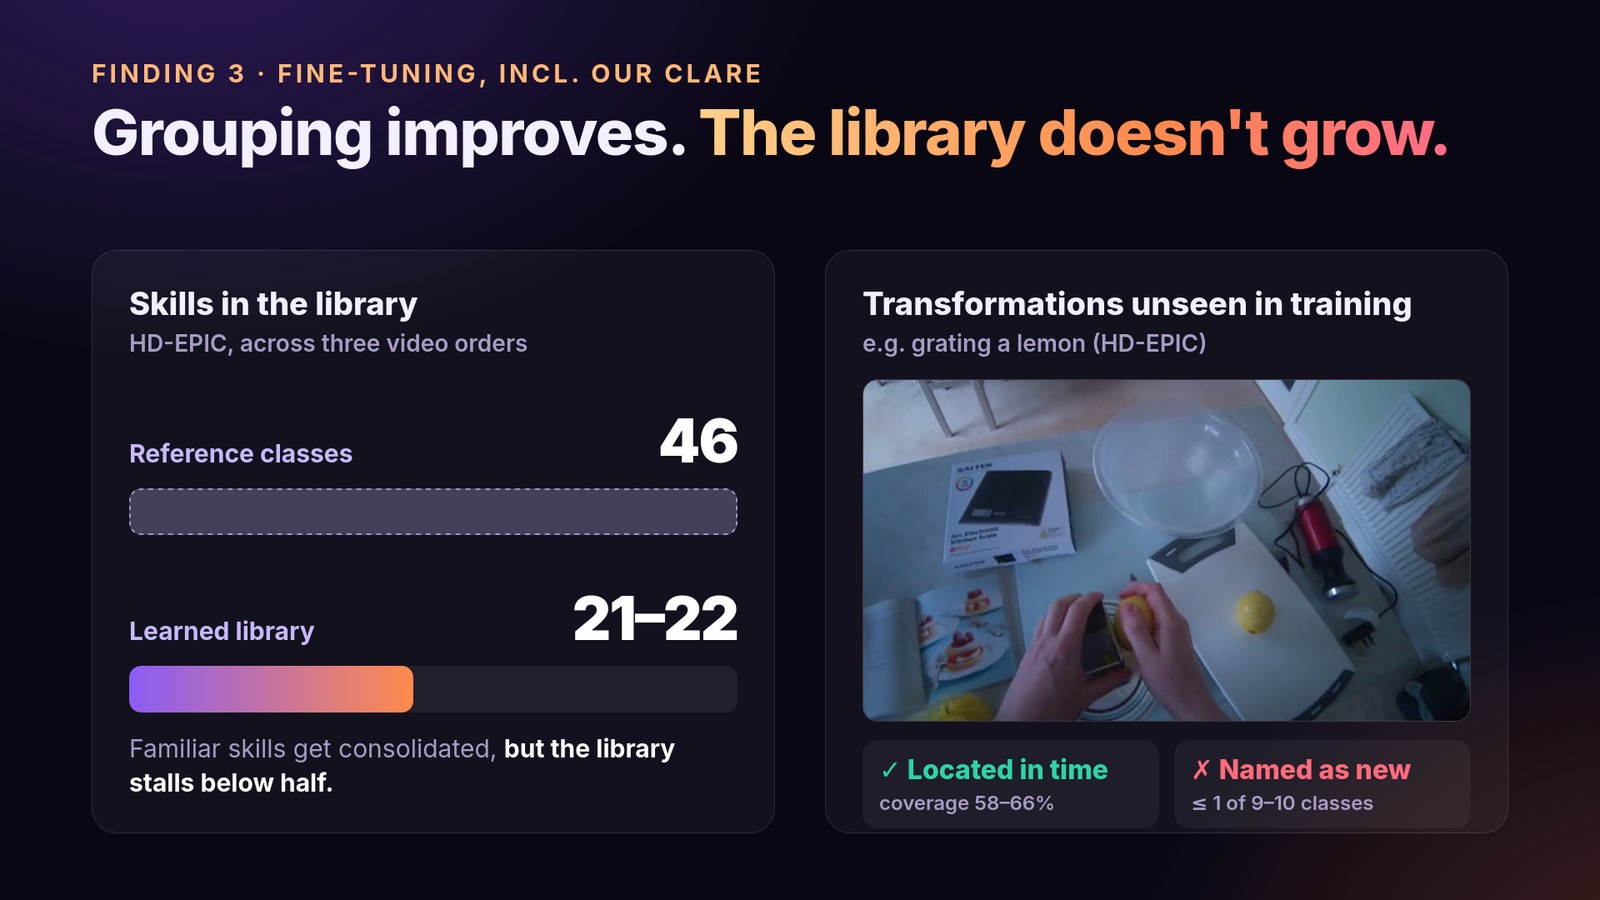
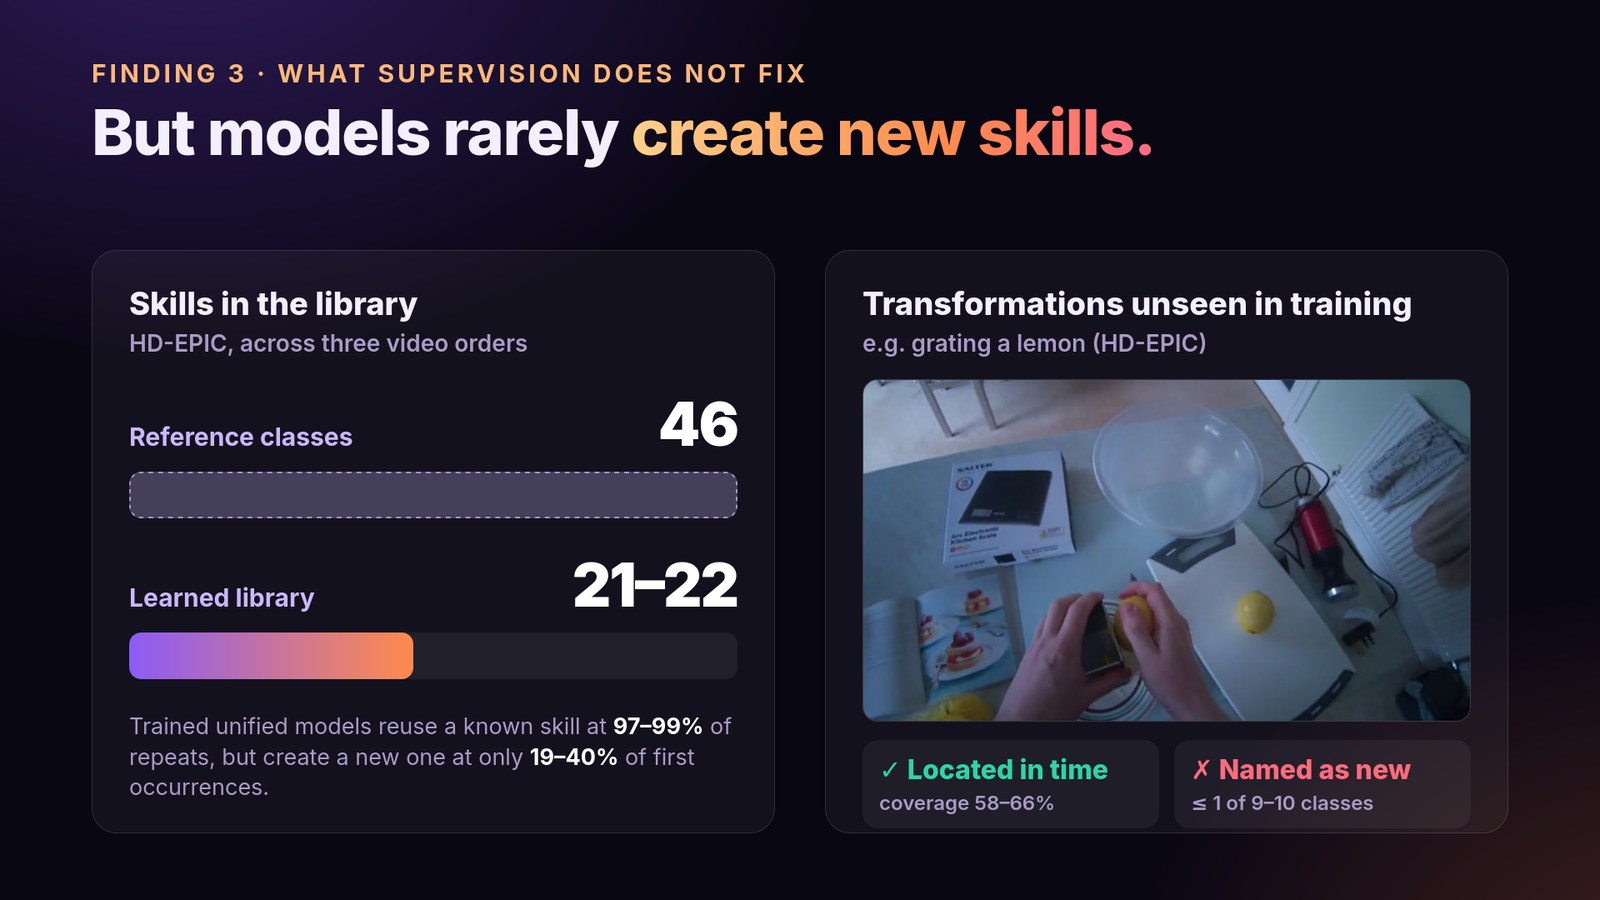
Thread draft: findings as zero-shot / supervision helps / creation gap

Changed region(s): [[0.0625, 0.4356, 0.4688, 0.7156], [0.0625, 0.6533, 0.4375, 0.9022], [0.0625, 0.0622, 0.9062, 0.1867]]

diff --git a/webpage/thread-draft/index.html b/webpage/thread-draft/index.html
@@ -82,29 +82,29 @@ header { display: flex; flex-wrap: wrap; align-items: baseline; gap: 4px 8px; fo
 <article class="post">
   <div class="rail"><img class="av" src="m/avatar.jpg" alt=""><span class="line"></span></div>
   <div class="body">
-    <header><span class="name">Jianshu Zhang</span> <span class="handle">@your_handle</span><span class="role">4/7 · Finding 1</span><span class="count">241/280</span></header>
-    <p class="text">Finding 1: across 19 open-source VLMs, many models group events near chance (best ARI ≤ 27 out of 100).<br><br>Scale is not a reliable fix: going from Qwen3.5-4B to 27B raises ARI on HD-EPIC (8.7 → 19.9) but lowers it on RoboInter (19.4 → 4.6).</p><figure class="media" style="aspect-ratio:16 / 9"><img src="m/4_zero_shot.jpg" alt="Best skill-grouping agreement (ARI) of 19 open-source VLMs is at most 27 out of 100; scaling Qwen3.5 from 4B to 27B raises ARI on HD-EPIC (8.7 to 19.9) but lowers it on RoboInter (19.4 to 4.6)." loading="lazy"></figure><details class="alt"><summary>Alt text</summary><p>Best skill-grouping agreement (ARI) of 19 open-source VLMs is at most 27 out of 100; scaling Qwen3.5 from 4B to 27B raises ARI on HD-EPIC (8.7 to 19.9) but lowers it on RoboInter (19.4 to 4.6).</p></details>
+    <header><span class="name">Jianshu Zhang</span> <span class="handle">@your_handle</span><span class="role">4/7 · Finding 1</span><span class="count fold">494 chars · folds</span></header>
+    <p class="text"><span class="shown">Finding 1: off-the-shelf VLMs struggle. Across 19 open-source models, many group events near chance (best ARI ≤ 27/100), and scale is not a reliable fix: Qwen3.5 4B → 27B raises ARI on HD-EPIC (8.7 → 19.9) but lowers it on RoboInter (19.4 → 4.6).<br><br>How they fail depends on</span><span class="dots">… </span><button class="more" type="button">Show more</button><span class="rest" hidden> how perception and library updates are coupled: joint models merge distinct transformations (pouring and placing become one skill), while models that update the library from text descriptions duplicate recurring ones.</span></p><figure class="media" style="aspect-ratio:16 / 9"><img src="m/4_zero_shot.jpg" alt="Best skill-grouping agreement (ARI) of 19 open-source VLMs is at most 27 out of 100; scaling Qwen3.5 from 4B to 27B raises ARI on HD-EPIC (8.7 to 19.9) but lowers it on RoboInter (19.4 to 4.6)." loading="lazy"></figure><details class="alt"><summary>Alt text</summary><p>Best skill-grouping agreement (ARI) of 19 open-source VLMs is at most 27 out of 100; scaling Qwen3.5 from 4B to 27B raises ARI on HD-EPIC (8.7 to 19.9) but lowers it on RoboInter (19.4 to 4.6).</p></details>
   </div>
 </article>
 <article class="post">
   <div class="rail"><img class="av" src="m/avatar.jpg" alt=""><span class="line"></span></div>
   <div class="body">
-    <header><span class="name">Jianshu Zhang</span> <span class="handle">@your_handle</span><span class="role">5/7 · Finding 2</span><span class="count">269/280</span></header>
-    <p class="text">Finding 2: how models fail depends on how perception and library updates are coupled.<br><br>• Joint models (video + library in one pass) merge distinct transformations: pouring and placing become one skill.<br>• Models updating the library from text duplicate recurring ones.</p><figure class="media" style="aspect-ratio:16 / 9"><img src="m/5_coupling.jpg" alt="Joint models merge distinct transformations (pour absorbed into place); text-update models duplicate recurring ones (grasp re-created as pick_up, grab, take)." loading="lazy"></figure><details class="alt"><summary>Alt text</summary><p>Joint models merge distinct transformations (pour absorbed into place); text-update models duplicate recurring ones (grasp re-created as pick_up, grab, take).</p></details>
+    <header><span class="name">Jianshu Zhang</span> <span class="handle">@your_handle</span><span class="role">5/7 · Finding 2</span><span class="count fold">456 chars · folds</span></header>
+    <p class="text"><span class="shown">Finding 2: supervision clearly helps grouping. We explore three strategies: oracle-history SFT, our counterfactual library-state rebalancing (CLaRe), and on-policy correction. All three beat zero-shot in every setting, e.g. unified Qwen3.5-4B ARI 19.4 → 60.0 on RoboInter.<br><br>No</span><span class="dots">… </span><button class="more" type="button">Show more</button><span class="rest" hidden> single strategy wins everywhere: oracle-history SFT gives the best unified ARI, while CLaRe helps in specific settings, e.g. raising creation recall from 28.6 to 40.0 on HD-EPIC.</span></p><figure class="media" style="aspect-ratio:16 / 9"><img src="m/5_supervision.jpg" alt="Bar chart of ARI for unified Qwen3.5-4B. RoboInter: zero-shot 19.4, oracle-history SFT 60.0, CLaRe 56.2, on-policy correction 56.3. HD-EPIC: 8.7, 31.0, 29.2, 28.2. In 8 of 8 settings every strategy beats zero-shot." loading="lazy"></figure><details class="alt"><summary>Alt text</summary><p>Bar chart of ARI for unified Qwen3.5-4B. RoboInter: zero-shot 19.4, oracle-history SFT 60.0, CLaRe 56.2, on-policy correction 56.3. HD-EPIC: 8.7, 31.0, 29.2, 28.2. In 8 of 8 settings every strategy beats zero-shot.</p></details>
   </div>
 </article>
 <article class="post">
   <div class="rail"><img class="av" src="m/avatar.jpg" alt=""><span class="line"></span></div>
   <div class="body">
-    <header><span class="name">Jianshu Zhang</span> <span class="handle">@your_handle</span><span class="role">6/7 · Finding 3</span><span class="count fold">509 chars · folds</span></header>
-    <p class="text"><span class="shown">Finding 3: we explore three ways to supervise library maintenance: oracle-history SFT, our counterfactual library-state rebalancing (CLaRe), and on-policy correction. All improve grouping, yet familiar skills get consolidated while the library rarely grows.<br><br>On HD-EPIC it stalls</span><span class="dots">… </span><button class="more" type="button">Show more</button><span class="rest" hidden> at 21–22 skills vs. 46 classes. For the 11 classes absent from training, coverage after fine-tuning is 58–66% (higher than for seen classes), yet at most 1 of the 9–10 covered unseen classes gets a new skill name when first seen.</span></p><figure class="media" style="aspect-ratio:16 / 9"><img src="m/6_bottleneck.jpg" alt="Left: after fine-tuning the learned library holds 21-22 skills versus 46 reference classes. Right: a lemon-grating clip, a transformation unseen in training, is located in time (coverage 58-66%) but at most 1 of 9-10 such classes is named as new." loading="lazy"></figure><details class="alt"><summary>Alt text</summary><p>Left: after fine-tuning the learned library holds 21-22 skills versus 46 reference classes. Right: a lemon-grating clip, a transformation unseen in training, is located in time (coverage 58-66%) but at most 1 of 9-10 such classes is named as new.</p></details>
+    <header><span class="name">Jianshu Zhang</span> <span class="handle">@your_handle</span><span class="role">6/7 · Finding 3</span><span class="count fold">428 chars · folds</span></header>
+    <p class="text"><span class="shown">Finding 3: but supervision does not teach models when to create. Trained unified models reuse a known skill at 97–99% of repeats, yet create a new one at only 19–40% of first occurrences. On HD-EPIC the library stalls at 21–22 skills vs. 46 classes.<br><br>The 11 classes absent from</span><span class="dots">… </span><button class="more" type="button">Show more</button><span class="rest" hidden> training are located in time (58–66% coverage, higher than for seen classes), yet at most 1 of the 9–10 covered ones gets a new skill when first seen.</span></p><figure class="media" style="aspect-ratio:16 / 9"><img src="m/6_bottleneck.jpg" alt="Left: the learned library holds 21-22 skills versus 46 reference classes; trained models reuse a known skill at 97-99% of repeats but create a new one at only 19-40% of first occurrences. Right: a lemon-grating clip, unseen in training, is located in time but rarely named as new." loading="lazy"></figure><details class="alt"><summary>Alt text</summary><p>Left: the learned library holds 21-22 skills versus 46 reference classes; trained models reuse a known skill at 97-99% of repeats but create a new one at only 19-40% of first occurrences. Right: a lemon-grating clip, unseen in training, is located in time but rarely named as new.</p></details>
   </div>
 </article>
 <article class="post">
   <div class="rail"><img class="av" src="m/avatar.jpg" alt=""></div>
   <div class="body">
-    <header><span class="name">Jianshu Zhang</span> <span class="handle">@your_handle</span><span class="role">7/7 · Takeaway and links</span><span class="count fold">453 chars · folds</span></header>
-    <p class="text"><span class="shown">Takeaway: the central challenge is recognizing when existing skills are not enough. (Our skills are semantic abstractions of observed transformations, not controllers.)<br><br>Data is open; we&#x27;d love to see what you build.<br>🤗 <a href="https://huggingface.co/datasets/Sterzhang/video2skill-bench" target="_blank" rel="noopener">huggingface.co/datasets/S…</a><br>🌐 <a href="https://andyzworks.github.io/video2skill/" target="_blank" rel="noopener">andyzworks.github.io/vide…</a><br><br>Joint</span><span class="dots">… </span><button class="more" type="button">Show more</button><span class="rest" hidden> work with Ce Zhang (co-first), Xiyuan Yang, Chenwei Xu, Haoran Lu, Yijiang Li, Yaqi Xie, Katia Sycara, and Han Liu (Northwestern, CMU, UIUC, UCSD).<br>🎬 2-min walkthrough below.</span></p><figure class="media" style="aspect-ratio:16 / 9"><video controls preload="metadata" playsinline poster="m/7_poster.jpg" src="m/7_walkthrough.mp4"></video></figure><details class="alt"><summary>Alt text</summary><p>Two-minute narrated walkthrough of Video2Skill, with captions.</p></details>
+    <header><span class="name">Jianshu Zhang</span> <span class="handle">@your_handle</span><span class="role">7/7 · Takeaway and links</span><span class="count fold">571 chars · folds</span></header>
+    <p class="text"><span class="shown">Takeaway: supervision teaches models to consolidate familiar skills, but recognizing when existing skills are not enough remains the central challenge.<br><br>Data is open; we&#x27;d love to see what you build.<br>🤗 <a href="https://huggingface.co/datasets/Sterzhang/video2skill-bench" target="_blank" rel="noopener">huggingface.co/datasets/S…</a><br>🌐 <a href="https://andyzworks.github.io/video2skill/" target="_blank" rel="noopener">andyzworks.github.io/vide…</a><br><br>Scope: our skills are</span><span class="dots">… </span><button class="more" type="button">Show more</button><span class="rest" hidden> semantic abstractions of observed transformations, not executable controllers, and we cover two domains so far.<br><br>Joint work with Ce Zhang (co-first), Xiyuan Yang, Chenwei Xu, Haoran Lu, Yijiang Li, Yaqi Xie, Katia Sycara, and Han Liu (Northwestern, CMU, UIUC, UCSD).<br>🎬 2-min walkthrough below.</span></p><figure class="media" style="aspect-ratio:16 / 9"><video controls preload="metadata" playsinline poster="m/7_poster.jpg" src="m/7_walkthrough.mp4"></video></figure><details class="alt"><summary>Alt text</summary><p>Two-minute narrated walkthrough of Video2Skill, with captions.</p></details>
   </div>
 </article>
   </section>
